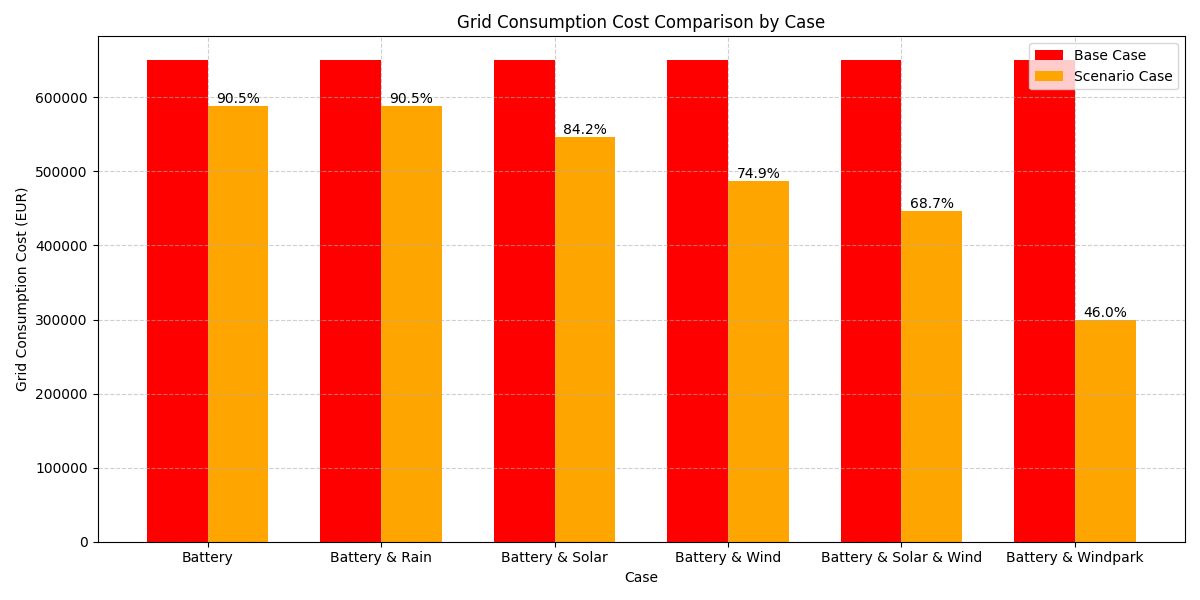
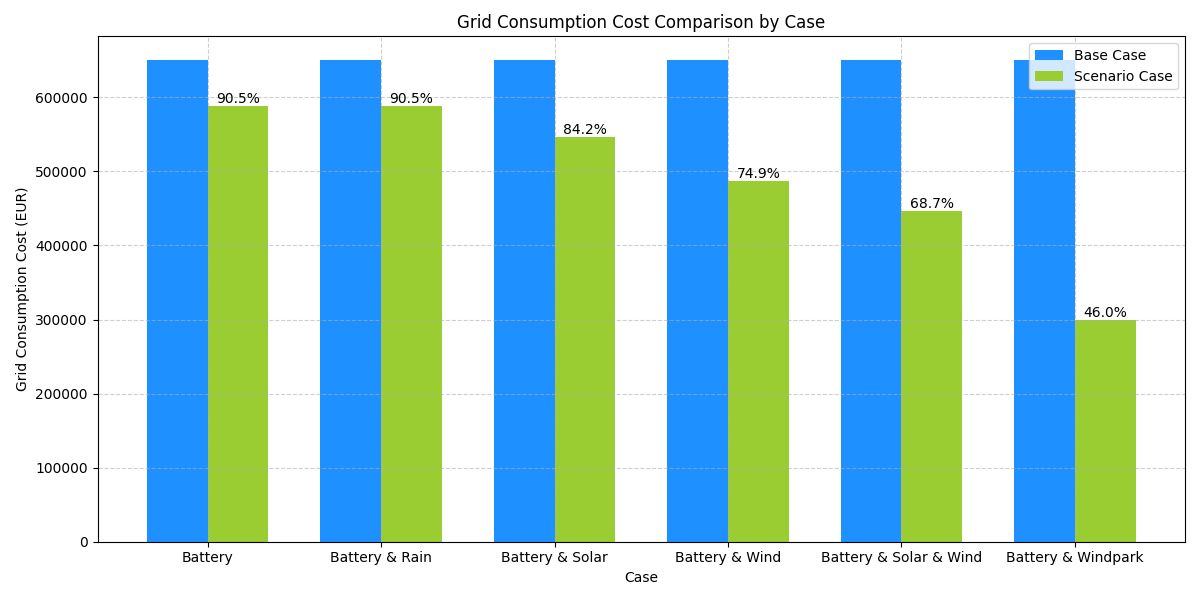
New results

diff --git a/data_plots_processing.py b/data_plots_processing.py
@@ -98,15 +98,15 @@ solar_wind_case_grid = solar_wind_case['Grid supply (kWh)'].sum()
 wind_park_case_grid = wind_park_case['Grid supply (kWh)'].sum()
 
 
-cases = ["Battery & Rain", "Battery & Solar", "Battery & Wind", "Battery & Solar & Wind", "Battery & Windpark"]
-case_values = [rain_case_grid, solar_case_grid, wind_case_grid, solar_wind_case_grid, wind_park_case_grid]
+cases = ["Battery","Battery & Rain", "Battery & Solar", "Battery & Wind", "Battery & Solar & Wind", "Battery & Windpark"]
+case_values = [battery_case_grid, rain_case_grid, solar_case_grid, wind_case_grid, solar_wind_case_grid, wind_park_case_grid]
 
 x = range(len(cases))
 width = 0.35
 
 plt.figure(figsize=(12, 6))
-plt.bar([i - width/2 for i in x], [base_case_grid]*len(cases), width=width, label='Base Case', color='red')
-bars = plt.bar([i + width/2 for i in x], case_values, width=width, label='Scenario Case', color='orange')
+plt.bar([i - width/2 for i in x], [base_case_grid]*len(cases), width=width, label='Base Case', color='dodgerblue')
+bars = plt.bar([i + width/2 for i in x], case_values, width=width, label='Scenario Case', color='yellowgreen')
 
 for i, val in enumerate(case_values):
     percent = val / base_case_grid * 100
@@ -139,8 +139,8 @@ x = range(len(cases))
 width = 0.35
 
 plt.figure(figsize=(12, 6))
-plt.bar([i - width/2 for i in x], [base_case_grid_cost]*len(cases), width=width, label='Base Case', color='red')
-bars = plt.bar([i + width/2 for i in x], case_values, width=width, label='Scenario Case', color='orange')
+plt.bar([i - width/2 for i in x], [base_case_grid_cost]*len(cases), width=width, label='Base Case', color='dodgerblue')
+bars = plt.bar([i + width/2 for i in x], case_values, width=width, label='Scenario Case', color='yellowgreen')
 
 for i, val in enumerate(case_values):
     percent = val / base_case_grid_cost * 100
@@ -157,3 +157,22 @@ plt.savefig('Results/Analysis/grid_consumption_cost_comparison.png')
 plt.close()
 
 
+wind_case_prod = wind_case['Wind (kWh)'].resample('ME').sum()
+wind_park_case_prod = wind_park_case['Wind (kWh)'].resample('ME').sum()
+
+months = wind_case_prod.index.strftime('%b')
+
+plt.figure(figsize=(16, 5))
+bar_width = 0.35
+x = range(len(months))
+plt.bar(x, wind_park_case_prod.values, width=bar_width, label="Big turbine", color="orangered")
+plt.bar([i + bar_width for i in x], wind_case_prod.values, width=bar_width, label="Small turbine", color="dodgerblue")
+plt.xlabel("Month")
+plt.ylabel("kWh")
+plt.title("Monthly Small and Big wind turbine Generation")
+plt.xticks([i + bar_width/2 for i in x], months)
+plt.legend()
+plt.grid(True, linestyle="--", alpha=0.6)
+plt.tight_layout()
+plt.savefig('Results/Analysis/monthly_wind_windpark.png')
+plt.close()

diff --git a/battery_solar_wind.py b/battery_solar_wind.py
@@ -213,15 +213,20 @@ solar_profile.index = pd.to_datetime(solar_profile.index)
 monthly_solar = solar_profile.resample("ME").sum()
 monthly_solar.index = monthly_solar.index.strftime("%b")
 
-plt.figure(figsize=(16, 5))
-bar_width = 0.35
+plt.figure(figsize=(15, 6))
+bar_width = 0.6
 x = range(len(monthly.index))
-plt.bar(x, monthly.values, width=bar_width, color="purple", label="Wind")
-plt.bar([i + bar_width for i in x], monthly_solar.values, width=bar_width, color="orange", label="Solar")
+total_monthly = monthly.values.flatten() + monthly_solar.values.flatten()
+plt.bar(x, monthly.values, width=bar_width, color="yellowgreen", label="Wind")
+plt.bar(x, monthly_solar.values, width=bar_width, bottom=monthly.values, color="orange", label="Solar")
+average_total = total_monthly.mean()
+plt.axhline(y=average_total, color='dodgerblue', linestyle='--', linewidth=2, label=f'Average ({average_total:.0f} kWh)')
+plt.title("Monthly Small Wind-Turbine and Solar Generation")
 plt.ylabel("kWh")
 plt.xlabel("Month")
-plt.tight_layout()
+plt.xticks(ticks=x, labels=monthly.index)
 plt.legend()
+plt.tight_layout()
 plt.savefig('Results/BatteryWindSolar_Case/monthly_wind_solar.png')
 plt.close()
 
@@ -250,14 +255,17 @@ grid_supply_og = low_power_mode[1].resample('ME').sum()
 grid_supply_with_battery = grid_supply.resample('ME').sum()
 
 # Monthly consumption
-plt.figure(figsize=(16, 5))
-bar_width = 0.20
+plt.figure(figsize=(15, 6))
+bar_width = 0.35
 x = range(len(months))
-plt.bar(x, grid_supply_og.values, width=bar_width, label="Original", color="red")
-plt.bar([i + bar_width for i in x], grid_supply_with_battery.values, width=bar_width, label="With Battery & Wind", color="green")
+plt.bar(x, grid_supply_og.values, width=bar_width, label="Base", color="dodgerblue")
+plt.bar([i + bar_width for i in x], grid_supply_with_battery.values, width=bar_width, label="With Battery, Solar & small Wind", color="yellowgreen")
+for i, val in enumerate(grid_supply_with_battery.values):
+    percent = val / grid_supply_og.values[i] * 100
+    plt.text(i + bar_width + 0.05, val + 10, f"{percent:.1f}%", ha='center', va='bottom')
 plt.xlabel("Month")
 plt.ylabel("kWh")
-plt.title("Monthly Grid supply: With vs Without Wind & Battery")
+plt.title("Monthly Grid supply: Base vs With small Wind, PV & Battery")
 plt.xticks([i + bar_width/2 for i in x], months)
 plt.legend()
 plt.grid(True, linestyle="--", alpha=0.6)

diff --git a/battery_wind_park.py b/battery_wind_park.py
@@ -232,14 +232,19 @@ grid_supply_og = low_power_mode[1].resample('ME').sum()
 grid_supply_with_battery = grid_supply.resample('ME').sum()
 
 # Monthly consumption
-plt.figure(figsize=(16, 5))
-bar_width = 0.20
+plt.figure(figsize=(15, 6))
+bar_width = 0.35
 x = range(len(months))
-plt.bar(x, grid_supply_og.values, width=bar_width, label="Original", color="red")
-plt.bar([i + bar_width for i in x], grid_supply_with_battery.values, width=bar_width, label="With Battery & Windpark", color="green")
+plt.bar(x, grid_supply_og.values, width=bar_width, label="Base", color="dodgerblue")
+plt.bar([i + bar_width for i in x], grid_supply_with_battery.values, width=bar_width, label="With Battery & big wind turbine", color="yellowgreen")
+for i, val in enumerate(grid_supply_with_battery.values):
+    percent = val / grid_supply_og.values[i] * 100
+    plt.text(i + bar_width + 0.05, val + 10, f"{percent:.1f}%", ha='center', va='bottom')
+
+
 plt.xlabel("Month")
 plt.ylabel("kWh")
-plt.title("Monthly Grid supply: With vs Without Windpark & Battery")
+plt.title("Monthly Grid supply: Base vs With big wind turbine & Battery")
 plt.xticks([i + bar_width/2 for i in x], months)
 plt.legend()
 plt.grid(True, linestyle="--", alpha=0.6)

diff --git a/battery_rain.py b/battery_rain.py
@@ -185,7 +185,7 @@ plt.close()
 plt.figure(figsize=(16, 5))
 plt.plot(time_index, rain_profile, label="Rain (kWh)", color="blue")
 plt.xlabel("Time")
-plt.ylabel("kW per hour")
+plt.ylabel("Energy (kWh)")
 plt.title("Rain Profile")
 plt.legend()
 plt.grid(True)
@@ -198,7 +198,7 @@ monthly = rain_profile.resample("ME").sum()
 monthly.index = monthly.index.strftime("%b")
 plt.figure(figsize=(16, 5))
 monthly.plot(kind='bar', title="Monthly Rain Production")
-plt.ylabel("Rain Production")
+plt.ylabel("Rain Production (kWh)")
 plt.xlabel("Month")
 plt.tight_layout()
 plt.savefig('Results/BatteryRain_Case/monthly_rain.png')
